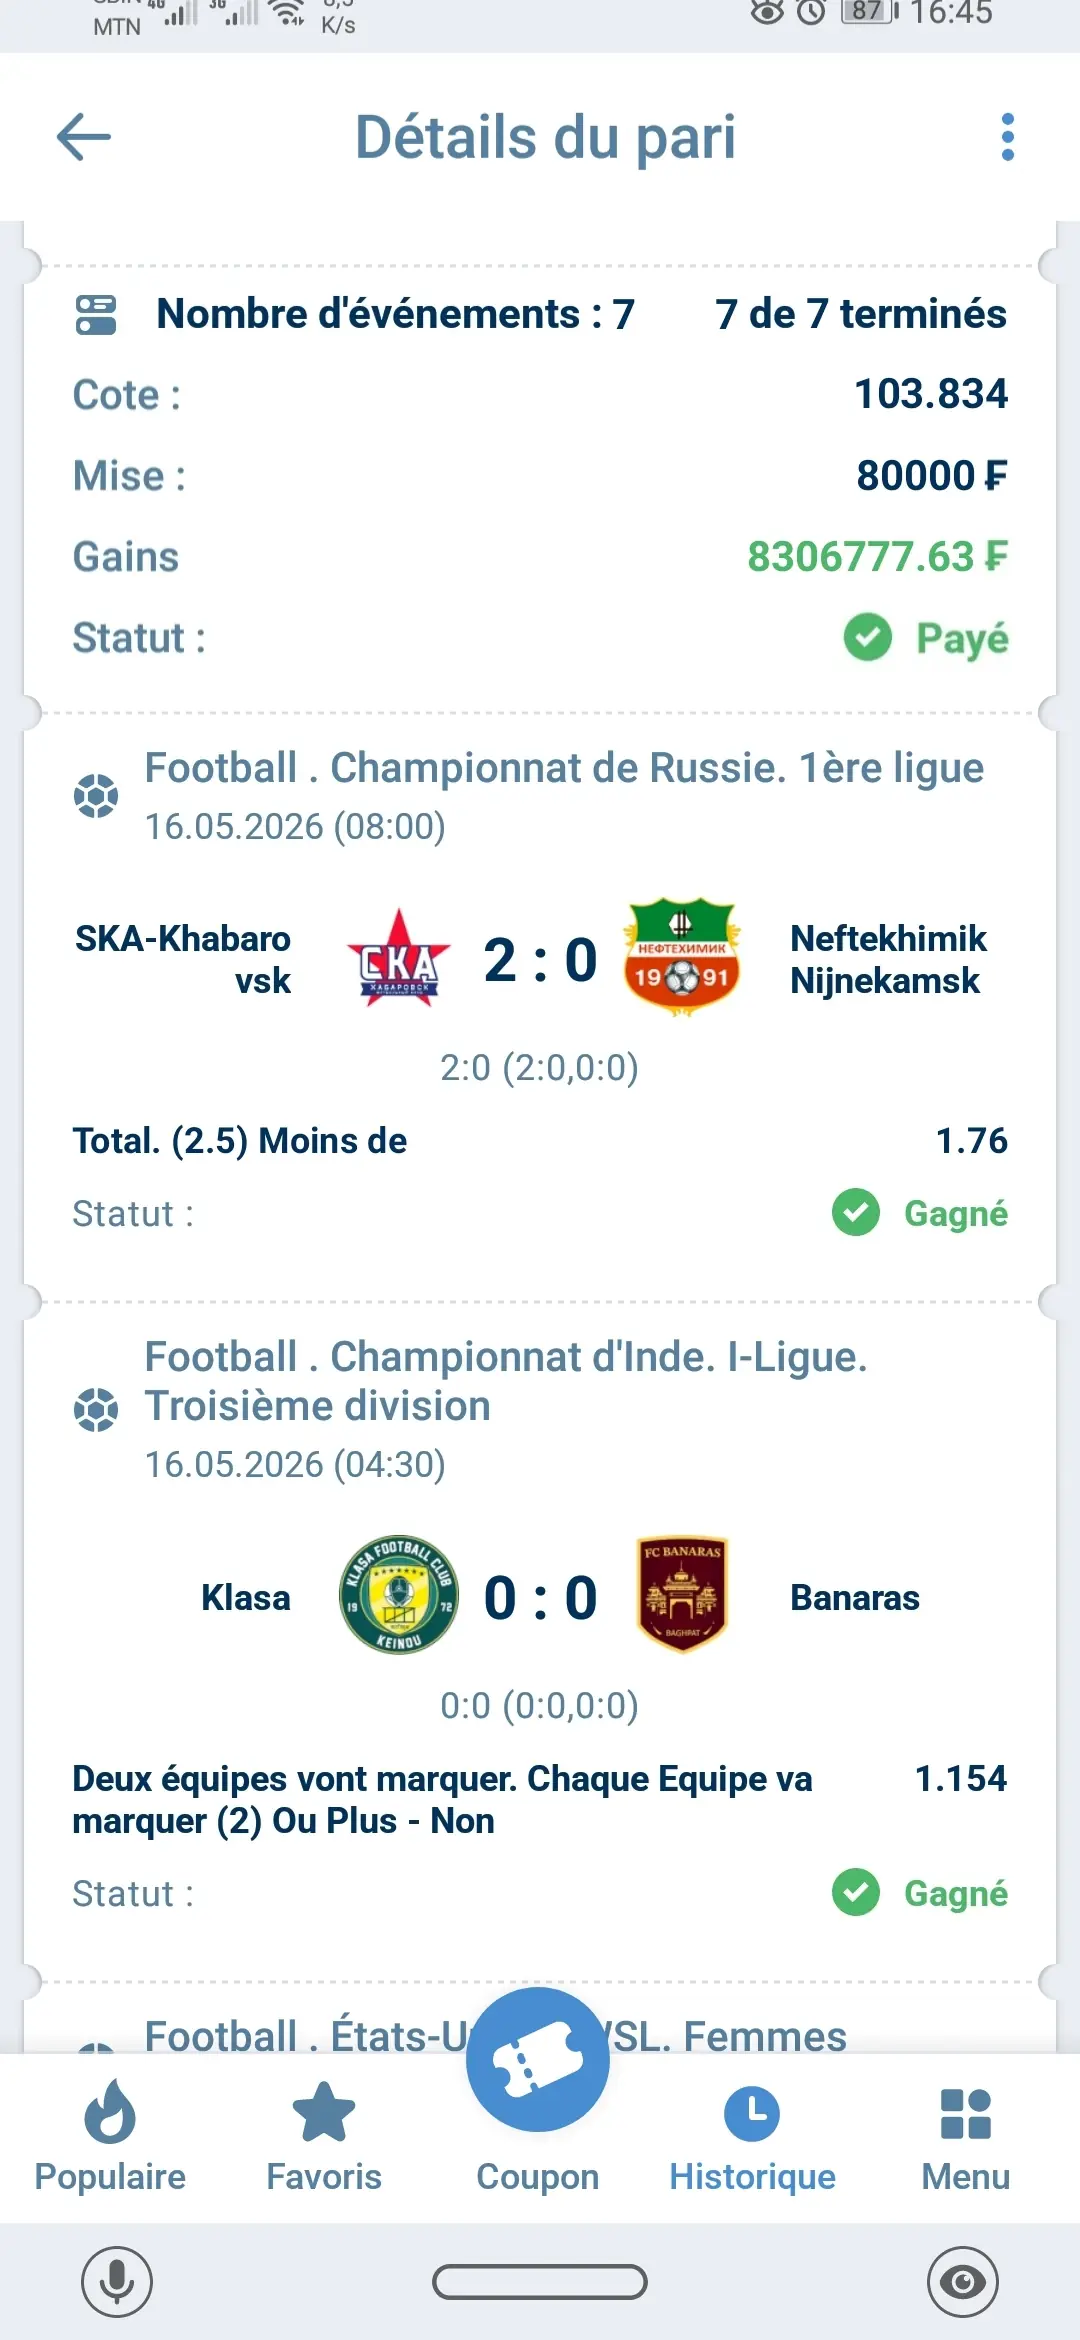
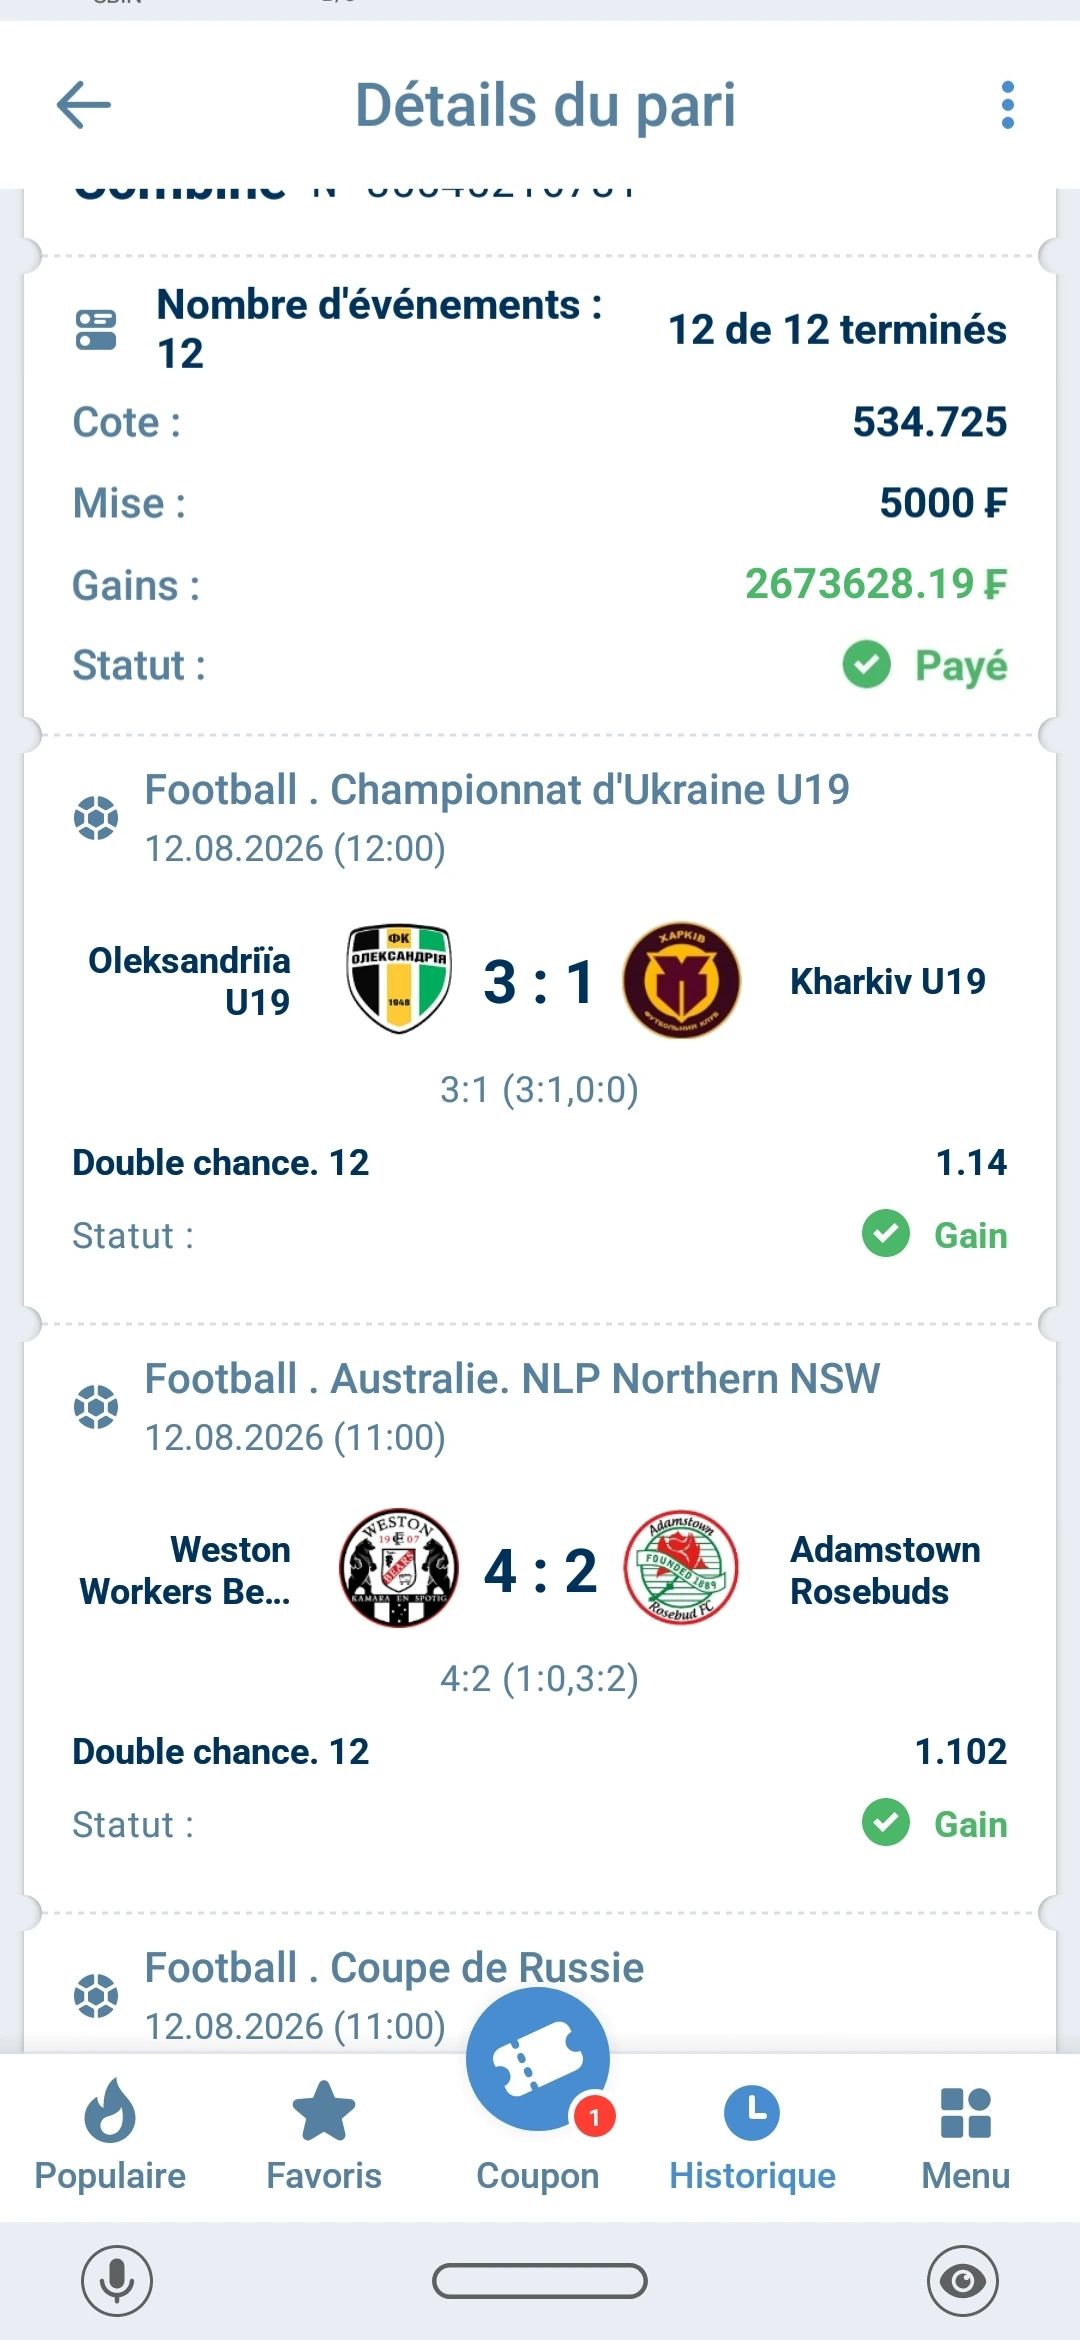
ads 21_08

diff --git a/src/constants/data.ts b/src/constants/data.ts
@@ -1,84 +1,85 @@
 import { CouponData, WinningCoupon } from "@/types/dataTypes";
 
 export const COUPON_DATA: CouponData = {
-    id: 1,
-    odds: 914.374,
-    stake: 20000,
-    gain: 18287480.92,
-    date: "27/06/2026",
-    image_url: "/assets/coupon_jour.webp",
-    whatsapp_link: "https://chat.whatsapp.com/GXKgKBJ2eBT7QsGoFinwLb?mode=gi_t"
-  }
+  id: 1,
+  odds: 914.374,
+  stake: 20000,
+  gain: 18287480.92,
+  date: "27/06/2026",
+  image_url: "/assets/coupon_jour.webp",
+  whatsapp_link:
+    "https://chat.whatsapp.com/DmFlCxwB6ZH8rQzvpyrBZ4?s=cl&p=a&ilr=1",
+};
 
 export const WONNING_COUPONS: WinningCoupon[] = [
     {
         id: 1,
-        odds: 609.617,
-        stake: 30000,
-        gain: 18288508.96,
-        date: "17/05/2026",
-        image_url: "/assets/won_5.webp",
+        odds: 314.118,
+        stake: 5000,
+        gain: 1570594.77,
+        date: "14/08/2026",
+        image_url: "/assets/won_1.webp",
         video: false,
         video_url: ""
     },
     {
         id: 2,
-        odds: 609.617,
-        stake: 30000,
-        gain: 18288508.96,
-        date: "17/05/2026",
-        image_url: "/assets/won_6.webp",
+        odds: 429.392,
+        stake: 5000,
+        gain: 2146963.73,
+        date: "13/08/2026",
+        image_url: "/assets/won_2.webp",
         video: false,
         video_url: ""
     },
     {
         id: 3,
-        odds: 609.617,
-        stake: 30000,
-        gain: 18288508.96,
-        date: "17/05/2026",
-        image_url: "/assets/won_7.webp",
+        odds: 534.725,
+        stake: 5000,
+        gain: 2673628.19,
+        date: "12/08/2026",
+        image_url: "/assets/won_3.webp",
         video: false,
         video_url: ""
     },
     {
         id: 4,
-        odds: 609.617,
-        stake: 30000,
-        gain: 18288508.96,
-        date: "17/05/2026",
-        image_url: "/assets/won_1.webp",
-        video: true,
-        video_url: "https://pyxwemjnkxpxcfpyilsq.supabase.co/storage/v1/object/public/won-media/won_1_vid.mp4"
+        odds: 363.07,
+        stake: 5000,
+        gain: 1815353.04,
+        date: "07/08/2026",
+        image_url: "/assets/won_4.webp",
+        video: false,
+        video_url: ""
     },
     {
         id: 5,
-        odds: 964.474,
-        stake: 23000,
-        gain: 22182907.75,
-        date: "16/05/2026",
-        image_url: "/assets/won_2.webp",
-        video: true,
-        video_url: "https://pyxwemjnkxpxcfpyilsq.supabase.co/storage/v1/object/public/won-media/won_2_vid.mp4"
+        odds: 467.458,
+        stake: 5000,
+        gain: 2337291.67,
+        date: "06/08/2026",
+        image_url: "/assets/won_5.webp",
+        video: false,
+        video_url: ""
     },
     {
         id: 6,
-        odds: 103.834,
-        stake: 80000,
-        gain: 8306777.63,
-        date: "16/05/2026",
-        video: true,
-        image_url: "/assets/won_3.webp",
-        video_url: "https://pyxwemjnkxpxcfpyilsq.supabase.co/storage/v1/object/public/won-media/won_3_vid.mp4"
+        odds: 439.47,
+        stake: 5000,
+        gain: 2197351.78,
+        date: "05/08/2026",
+        video: false,
+        image_url: "/assets/won_6.webp",
+        video_url: ""
     },
     {
         id: 7,
-        odds: 449.163,
-        stake: 20000,
-        gain: 8983270.103,
-        date: "13/05/2026",
-        video: true,
-        image_url: "/assets/won_4.webp",
-        video_url: "https://pyxwemjnkxpxcfpyilsq.supabase.co/storage/v1/object/public/won-media/won_4_vid.mp4"
+        odds: 402.131,
+        stake: 5000,
+        gain: 2010655.55,
+        date: "03/08/2026",
+        video: false,
+        image_url: "/assets/won_7.webp",
+        video_url: ""
     },
 ];
